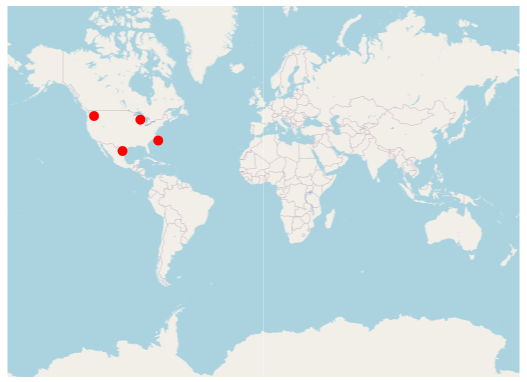
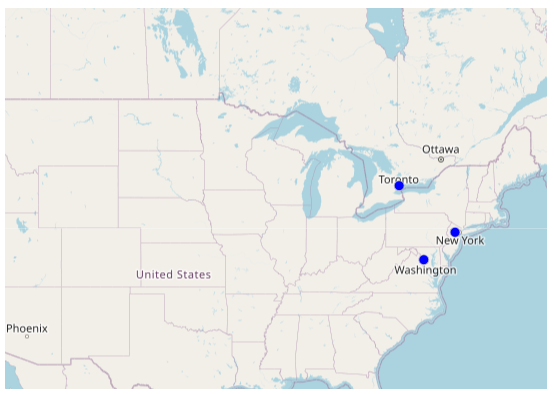
Review changes committed

diff --git a/wpf/Maps/ShapeType.md b/wpf/Maps/ShapeType.md
@@ -16,15 +16,15 @@ This feature allows you to draw a polygon, polyline, or circle on the map. You c
 	
 ## Add shapes using map element collection
 
-You can provide input as a Geo points collection in sample to draw multiple shapes in a single layer. You can also add more shapes using the `MapElements` property of the layer. There are three types of shapes available in map element.
+You can provide input as a Geo points collection to draw multiple shapes in a single layer by using the `MapElements` property of shape layer. There are three types of shapes available in map element.
 
     1.MapPolygon
     2.MapPolyline
     3.MapCircle
 
-### Polygon
+### MapPolygon
 
-Polygon shape type defines a group of land, water bodies, and other features with a spatial extent.
+You can add polygon shape on map using `MapPolygon` class and provide Geo points collection to `Points`. Polygon shape type defines a group of land, water bodies, and other features with a spatial extent.
 
 {% tabs %}
 {% highlight xaml %}
@@ -134,9 +134,9 @@ Polygon shape type defines a group of land, water bodies, and other features wit
 
 ![Multi polygon shape support in WPF Maps](Shape-Types/PolygonShape.png)
 
-### Polyline
+### MapPolyline
 
-Polylines are frequently used to define linear features such as roads, rivers, and power lines.
+You can add polyline shape on map using `MapPolyline` class and provide Geo points collection to `Points`. Polylines are frequently used to define linear features such as roads, rivers, and power lines.
 
 {% tabs %}
 {% highlight xaml %}
@@ -213,11 +213,13 @@ Polylines are frequently used to define linear features such as roads, rivers, a
 
 {% endtabs %}
 
-![Multi shapes in single layer support in WPF Maps](Shape-Types/MultiShapesPolyline.png)
+![Multi shapes in single layer support in WPF Maps](Shape-Types/PolylineShape.png)
 
-### Circle
+### MapCircle
 
-A circle icon has a single geo coordinate value. The circle icons are often used to define features such as oil wells, landmarks, and elevations.
+A circle icon has a single geo coordinate value and it can be positioned on map using `Center` property of `MapCircle`. The circle icons are often used to define features such as oil wells, landmarks, and elevations.
+
+* `Center` - Holds latitude and longitude values that defines the center of the circle.
 
 {% tabs %}
 {% highlight xaml %}          
@@ -305,14 +307,13 @@ A circle icon has a single geo coordinate value. The circle icons are often used
 
 {% endtabs %}
 
-![Multi shapes in single layer support in WPF Maps](Shape-Types/MultiShapesCircle.png)
+![Multi shapes in single layer support in WPF Maps](Shape-Types/PointIconShape.png)
 
 ### Customization of map elements
 
 The following properties are used to customize `MapPolygon`, `MapPolyline`, and `MapCircle`.
 
 * `Fill`, `Stroke`, `StrokeThickness` - Used to customize the appearance of the map element's shape UI.
-* `Center` - Holds latitude and longitude values that defines the center of the circle. This property is available only for `MapCircle`.
 * `Radius` - Used to customize radius or range of the map circle. This property is available only for `MapCircle`.
 
 {% tabs %}
@@ -383,15 +384,17 @@ The following properties are used to customize `MapPolygon`, `MapPolyline`, and 
 
 ## Add shapes using point collection
 
-To draw a shape, you can provide input as a Geo point collection in sample. You can also add more number of shapes by using Maps [`SubShapeFileLayer`](https://help.syncfusion.com/wpf/maps/multilayer-support#subshapefilelayers) support. In shape file layer, there are three type of shapes that can be changed by using the [`ShapeType`](https://help.syncfusion.com/cr/wpf/Syncfusion.UI.Xaml.Maps.ShapeFileLayer.html#Syncfusion_UI_Xaml_Maps_ShapeFileLayer_ShapeType) property.
+You can add more number of shapes on map by using [`SubShapeFileLayer`](https://help.syncfusion.com/wpf/maps/multilayer-support#subshapefilelayers) and `Points` collection property which contains the geo-coordinate points to draw a shape. In shape file layer, there are three type of shapes available and it can be changed by using the [`ShapeType`](https://help.syncfusion.com/cr/wpf/Syncfusion.UI.Xaml.Maps.ShapeFileLayer.html#Syncfusion_UI_Xaml_Maps_ShapeFileLayer_ShapeType) property.
 
-    1.Polyline
-    2.Polygon
+    1.Polygon
+    2.Polyline
     3.Point icon
     
+You can customize the appearance of the shape UI by setting [`ShapeFill`](https://help.syncfusion.com/cr/wpf/Syncfusion.UI.Xaml.Maps.ShapeSetting.html#Syncfusion_UI_Xaml_Maps_ShapeSetting_ShapeFill), [`ShapeStroke`](https://help.syncfusion.com/cr/wpf/Syncfusion.UI.Xaml.Maps.ShapeSetting.html#Syncfusion_UI_Xaml_Maps_ShapeSetting_ShapeStroke), and [`ShapeStrokeThickness`](https://help.syncfusion.com/cr/wpf/Syncfusion.UI.Xaml.Maps.ShapeSetting.html#Syncfusion_UI_Xaml_Maps_ShapeSetting_ShapeStrokeThickness) properties in [`ShapeSetting`](https://help.syncfusion.com/cr/wpf/Syncfusion.UI.Xaml.Maps.ShapeSetting.html).
+
 ### Polygon
 
-Polygon shape type defines a group of land, water bodies, and other features with a spatial extent.
+You can add polygon shape on map by using Points collection property of shape layer or sub layer and set [`ShapeType`](https://help.syncfusion.com/cr/wpf/Syncfusion.UI.Xaml.Maps.ShapeFileLayer.html#Syncfusion_UI_Xaml_Maps_ShapeFileLayer_ShapeType) as `Polygon`. Polygon shape type defines a group of land, water bodies, and other features with a spatial extent.
 
 {% tabs %}
 {% highlight xaml %}
@@ -500,7 +503,7 @@ Polygon shape type defines a group of land, water bodies, and other features wit
 
 ### Polyline
 
-Polylines are frequently used to define linear features such as roads, rivers, and power lines.
+You can add polyline shape on map by using Points collection property of shape layer or sub layer and set [`ShapeType`](https://help.syncfusion.com/cr/wpf/Syncfusion.UI.Xaml.Maps.ShapeFileLayer.html#Syncfusion_UI_Xaml_Maps_ShapeFileLayer_ShapeType) as `Polyline`. Polylines are frequently used to define linear features such as roads, rivers, and power lines.
 
 {% tabs %}
 {% highlight xaml %}
@@ -579,46 +582,45 @@ Polylines are frequently used to define linear features such as roads, rivers, a
 
 {% endtabs %}
 
-![Polyline shape support in WPF Maps](Shape-Types/MultiShapesPolyline.png)
+![Polyline shape support in WPF Maps](Shape-Types/PolylineShape.png)
 
 ### Point icon
 
-A point icon has a single geo coordinate value. The point icons are often used to define features such as oil wells, landmarks, and elevations.
+A point icon has a single geo coordinate value and you can add multi point icon shapes on map by using `Points` collection property of shape layer or sub layer and set [`ShapeType`](https://help.syncfusion.com/cr/wpf/Syncfusion.UI.Xaml.Maps.ShapeFileLayer.html#Syncfusion_UI_Xaml_Maps_ShapeFileLayer_ShapeType) as `PointIcon`. The point icons are often used to define features such as oil wells, landmarks, and elevations.
+
+The size, shape, and alignment of the map points can be customized using the [`MapPointIconSize`](https://help.syncfusion.com/cr/wpf/Syncfusion.UI.Xaml.Maps.ShapeFileLayer.html#Syncfusion_UI_Xaml_Maps_ShapeFileLayer_MapPointIconSize), [`MapPointIcon`](https://help.syncfusion.com/cr/wpf/Syncfusion.UI.Xaml.Maps.ShapeFileLayer.html#Syncfusion_UI_Xaml_Maps_ShapeFileLayer_MapPointIcon), [`MapPointHorizontalAlignment`](https://help.syncfusion.com/cr/wpf/Syncfusion.UI.Xaml.Maps.ShapeFileLayer.html#Syncfusion_UI_Xaml_Maps_ShapeFileLayer_MapPointHorizontalAlignment), and [`MapPointVerticalAlignment`](https://help.syncfusion.com/cr/wpf/Syncfusion.UI.Xaml.Maps.ShapeFileLayer.html#Syncfusion_UI_Xaml_Maps_ShapeFileLayer_MapPointVerticalAlignment) properties of the shape file layer.
 
 {% tabs %}
 {% highlight xaml %}
 
-             <maps:SfMap x:Name="Maps" >
+         <maps:SfMap x:Name="Maps" ZoomLevel="4">
             <maps:SfMap.Layers>
-                <maps:ImageryLayer  x:Name="layer">
+                <maps:ImageryLayer  x:Name="layer" Center="42.9709225,-90.2187212">
                     <maps:ImageryLayer.SubShapeFileLayers>
-                        <maps:SubShapeFileLayer x:Name="subLayer" MapPointIconSize="10" ShapeType="PointIcon">
+                        <maps:SubShapeFileLayer x:Name="subLayer" MapPointIconSize="10"
+                                                ShapeType="PointIcon">
                             <maps:SubShapeFileLayer.Points>
                                 <Point>
-                                    <Point.X>48.95</Point.X>
-                                    <Point.Y>-122.68</Point.Y>
+                                    <Point.X>43.96140927456403</Point.X>
+                                    <Point.Y>-79.85451013248883</Point.Y>
                                 </Point>
                                 <Point>
-                                    <Point.X>30.197</Point.X>
-                                    <Point.Y>-102.6564</Point.Y>
+                                    <Point.X>41.1324105</Point.X>
+                                    <Point.Y>-74.4416047</Point.Y>
                                 </Point>
                                 <Point>
-                                    <Point.X>36.3305</Point.X>
-                                    <Point.Y>-77.5437</Point.Y>
-                                </Point>
-                                <Point>
-                                    <Point.X>47.2331</Point.X>
-                                    <Point.Y>-90.140212</Point.Y>
+                                    <Point.X>39.2781708</Point.X>
+                                    <Point.Y>-77.5889971</Point.Y>
                                 </Point>
                             </maps:SubShapeFileLayer.Points>
                             <maps:ShapeFileLayer.ShapeSettings>
-                                <maps:ShapeSetting ShapeFill="Red" ShapeStroke="Red"/>
+                                <maps:ShapeSetting ShapeFill="Blue"/>
                             </maps:ShapeFileLayer.ShapeSettings>
                         </maps:SubShapeFileLayer>
                     </maps:ImageryLayer.SubShapeFileLayers>
                 </maps:ImageryLayer>
             </maps:SfMap.Layers>
-        </maps:SfMap>
+        </maps:SfMap>    
 
 {% endhighlight %}
 
@@ -626,27 +628,27 @@ A point icon has a single geo coordinate value. The point icons are often used t
 
     public partial class MyPage : ContentPage
     {
-        ViewModel obj = new ViewModel();
         public MyPage()
         {
             InitializeComponent();
-            this.DataContext = obj;
             SfMap maps = new SfMap();
+            maps.ZoomLevel = 4;
             ImageryLayer layer = new ImageryLayer();
+            layer.Center = new Point(42.9709225, -90.2187212);
             SubShapeFileLayer subLayer = new SubShapeFileLayer();
-            subLayer.Points.Add(new Point(48.95, -122.68));
-            subLayer.Points.Add(new Point(30.197, -102.6564));
-            subLayer.Points.Add(new Point(36.3305, -77.5437));
-            subLayer.Points.Add(new Point(47.2331, -90.140212));
+            subLayer.Points.Add(new Point(43.96140927456403, -79.85451013248883));
+            subLayer.Points.Add(new Point(41.1324105, -74.4416047));
+            subLayer.Points.Add(new Point(39.2781708, -77.5889971));
             subLayer.MapPointIconSize = 10;
             subLayer.ShapeType = ShapeType.PointIcon;
+            subLayer.MapPointIconSize = 10;
             ShapeSetting subLayerSetting = new ShapeSetting();
-            subLayerSetting.ShapeFill = new SolidColorBrush(Colors.Red);
-            subLayerSetting.ShapeStroke = new SolidColorBrush(Colors.Red);
+            subLayerSetting.ShapeFill = new SolidColorBrush(Colors.Blue);
             subLayer.ShapeSettings = subLayerSetting;
             layer.SubShapeFileLayers.Add(subLayer);
             maps.Layers.Add(layer);
             this.Content = maps;
+            
        }
     }
 {% endhighlight %}
@@ -654,7 +656,3 @@ A point icon has a single geo coordinate value. The point icons are often used t
 {% endtabs %}
 
 ![Point icon shape support in WPF Maps](Shape-Types/PointIconShape.png)
-
-### Customization of points
-
-The size, shape, and position of the map points can be customized using the [`MapPointIconSize`](https://help.syncfusion.com/cr/wpf/Syncfusion.UI.Xaml.Maps.ShapeFileLayer.html#Syncfusion_UI_Xaml_Maps_ShapeFileLayer_MapPointIconSize), [`MapPointIcon`](https://help.syncfusion.com/cr/wpf/Syncfusion.UI.Xaml.Maps.ShapeFileLayer.html#Syncfusion_UI_Xaml_Maps_ShapeFileLayer_MapPointIcon), [`MapPointHorizontalAlignment`](https://help.syncfusion.com/cr/wpf/Syncfusion.UI.Xaml.Maps.ShapeFileLayer.html#Syncfusion_UI_Xaml_Maps_ShapeFileLayer_MapPointHorizontalAlignment), and [`MapPointVerticalAlignment`](https://help.syncfusion.com/cr/wpf/Syncfusion.UI.Xaml.Maps.ShapeFileLayer.html#Syncfusion_UI_Xaml_Maps_ShapeFileLayer_MapPointVerticalAlignment) properties of the shape file layer.
